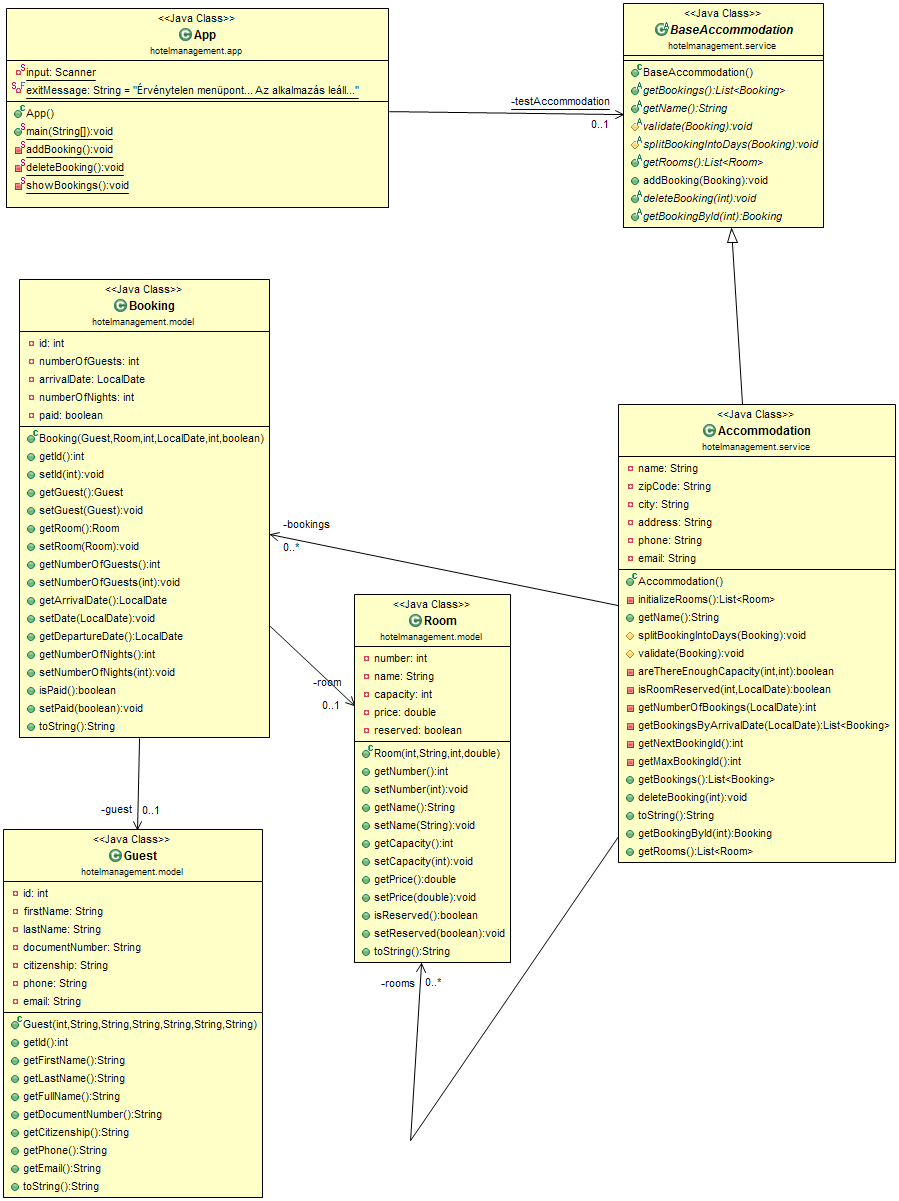
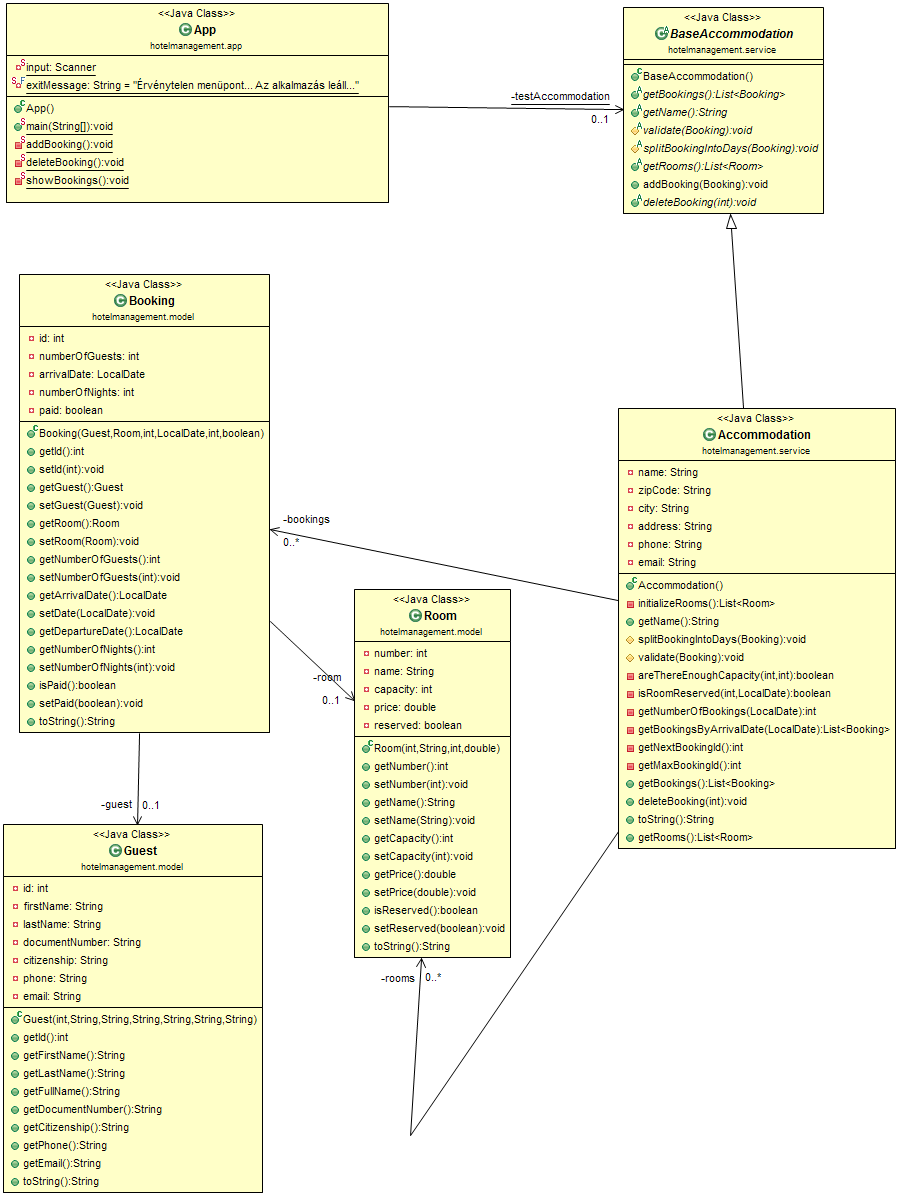
delete refactor.

diff --git a/src/hotelmanagement/tests/BaseAccommodationTest.java b/src/hotelmanagement/tests/BaseAccommodationTest.java
@@ -161,4 +161,74 @@ class BaseAccommodationTest {
 
 	}
 
+	@Test
+	public void test_delete_succefully_a_booking_with_specified_id() {
+
+		try {
+			System.out.println("test_delete_succefully_a_booking_with_specified_id");
+			BaseAccommodation testAccommodation = new Accommodation();
+			Room testRoom = testAccommodation.getRooms().get(0);
+			Guest testGuest1 = new Guest(1, "Juhász", "Bence", "ABC123", "magyar", "06702344280",
+					"juhasz.bence@teszt.hu");
+
+			Booking booking = new Booking(testGuest1, testRoom, 1, LocalDate.of(2020, 06, 01), 1, false);
+			testAccommodation.addBooking(booking);
+
+			testAccommodation.deleteBooking(1);
+			assertEquals(0, testAccommodation.getBookings().size());
+
+		} catch (Exception e) {
+			System.out.println("Dobott kivételt: " + e.getMessage());
+		}
+		System.out.println("Sikeresen törli az adott azonosítójú foglalásokat.");
+		System.out.println();
+
+	}
+
+	@Test
+	public void test_delete_booking_with_specified_id_not_exists_should_throw_exception() {
+
+		try {
+			System.out.println("test_delete_booking_with_specified_id_not_exists_should_throw_exception");
+			BaseAccommodation testAccommodation = new Accommodation();
+			Room testRoom = testAccommodation.getRooms().get(0);
+			Guest testGuest1 = new Guest(1, "Juhász", "Bence", "ABC123", "magyar", "06702344280",
+					"juhasz.bence@teszt.hu");
+
+			Booking booking = new Booking(testGuest1, testRoom, 1, LocalDate.of(2020, 06, 01), 1, false);
+			testAccommodation.addBooking(booking);
+
+			testAccommodation.deleteBooking(2);
+
+		} catch (Exception e) {
+			System.out.println("Dobott kivételt: " + e.getMessage());
+		}
+		System.out.println("Sikeresen elszáll a program, ha nem létező azonosítójú foglalást próbálok törölni.");
+		System.out.println();
+
+	}
+
+	@Test
+	public void test_delete_bookings_with_specified_id_not_exists_should_throw_exception() {
+
+		try {
+			System.out.println("test_delete_bookings_with_specified_id_not_exists_should_throw_exception");
+			BaseAccommodation testAccommodation = new Accommodation();
+			Room testRoom = testAccommodation.getRooms().get(0);
+			Guest testGuest1 = new Guest(1, "Juhász", "Bence", "ABC123", "magyar", "06702344280",
+					"juhasz.bence@teszt.hu");
+
+			Booking booking = new Booking(testGuest1, testRoom, 1, LocalDate.of(2020, 06, 01), 3, false);
+			testAccommodation.addBooking(booking);
+
+			testAccommodation.deleteBooking(1);
+			assertEquals(0, testAccommodation.getBookings().size());
+		} catch (Exception e) {
+			System.out.println("Dobott kivételt: " + e.getMessage());
+		}
+		System.out.println("Sikeresen töröl többnapos foglalást is, ha azonos az azonosítójuk.");
+		System.out.println();
+
+	}
+
 }

diff --git a/src/hotelmanagement/service/Accommodation.java b/src/hotelmanagement/service/Accommodation.java
@@ -153,30 +153,20 @@ public final class Accommodation extends BaseAccommodation {
 
 	@Override
 	public void deleteBooking(int id) throws Exception {
+
 		for (Booking booking : bookings) {
 			if (booking.getId() == id) {
-				bookings.remove(booking);
+				bookings.removeIf(x -> x.getId() == id);
 				return;
 			}
 		}
-		throw new Exception("Nincs foglalás az alábbi azonosítóval: " + id + ". Nem lehet törölni!");
-
+		throw new Exception("Nem található " + id + " azonosítóval foglalás. Nem lehet törölni!");
 	}
 
 	@Override
 	public String toString() {
 		return "A szálláshely neve: " + name + ", címe: " + zipCode + " " + city + " " + address + "."
 				+ "Elérhetőségek: " + phone + ", " + email;
-	}
-
-	@Override
-	public Booking getBookingById(int id) throws Exception {
-		for (Booking booking : bookings) {
-			if (booking.getId() == id) {
-				return booking;
-			}
-		}
-		throw new Exception("Nem található foglalás az alábbi azonosítóval: " + id);
 	}
 
 	@Override

diff --git a/src/hotelmanagement/app/App.java b/src/hotelmanagement/app/App.java
@@ -21,7 +21,6 @@ public class App {
 			System.out.println("******* V I R T U A L *********");
 			System.out.println("*** R E C E P T I O N I S T ***");
 			System.out.println("*******************************");
-			Thread.sleep(2000);
 
 			System.out.println("Kérem válasszon menüpontot:\n");
 			System.out.println("1) Foglalás rögzítése\n2) Foglalás törlése\n3) Foglalások listázása");
@@ -53,9 +52,8 @@ public class App {
 
 		int id = input.nextInt();
 
-		
 		// Booking newBooking = new Booking();
-		
+
 		// testAccommodation.addBooking();
 
 		System.out.println(id + " azonosítójú foglalás sikeresen rögzítésre került!");

diff --git a/src/hotelmanagement/service/BaseAccommodation.java b/src/hotelmanagement/service/BaseAccommodation.java
@@ -24,6 +24,4 @@ public abstract class BaseAccommodation {
 
 	public abstract void deleteBooking(int id) throws Exception;
 
-	public abstract Booking getBookingById(int id) throws Exception;
-
 }
